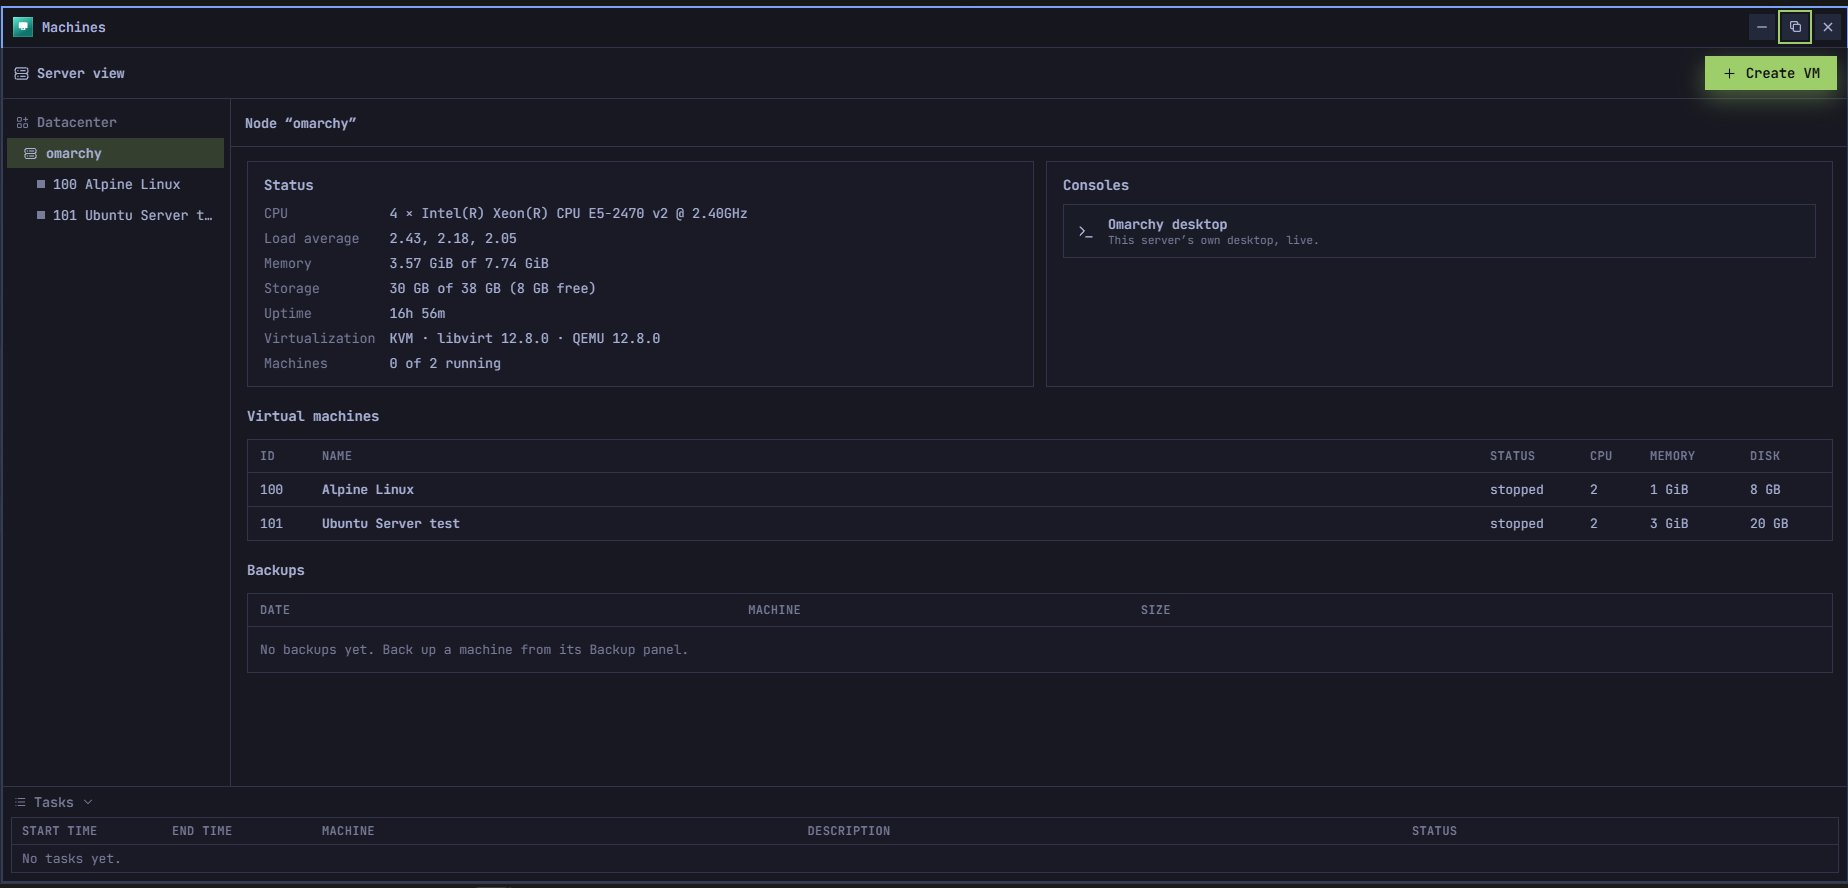
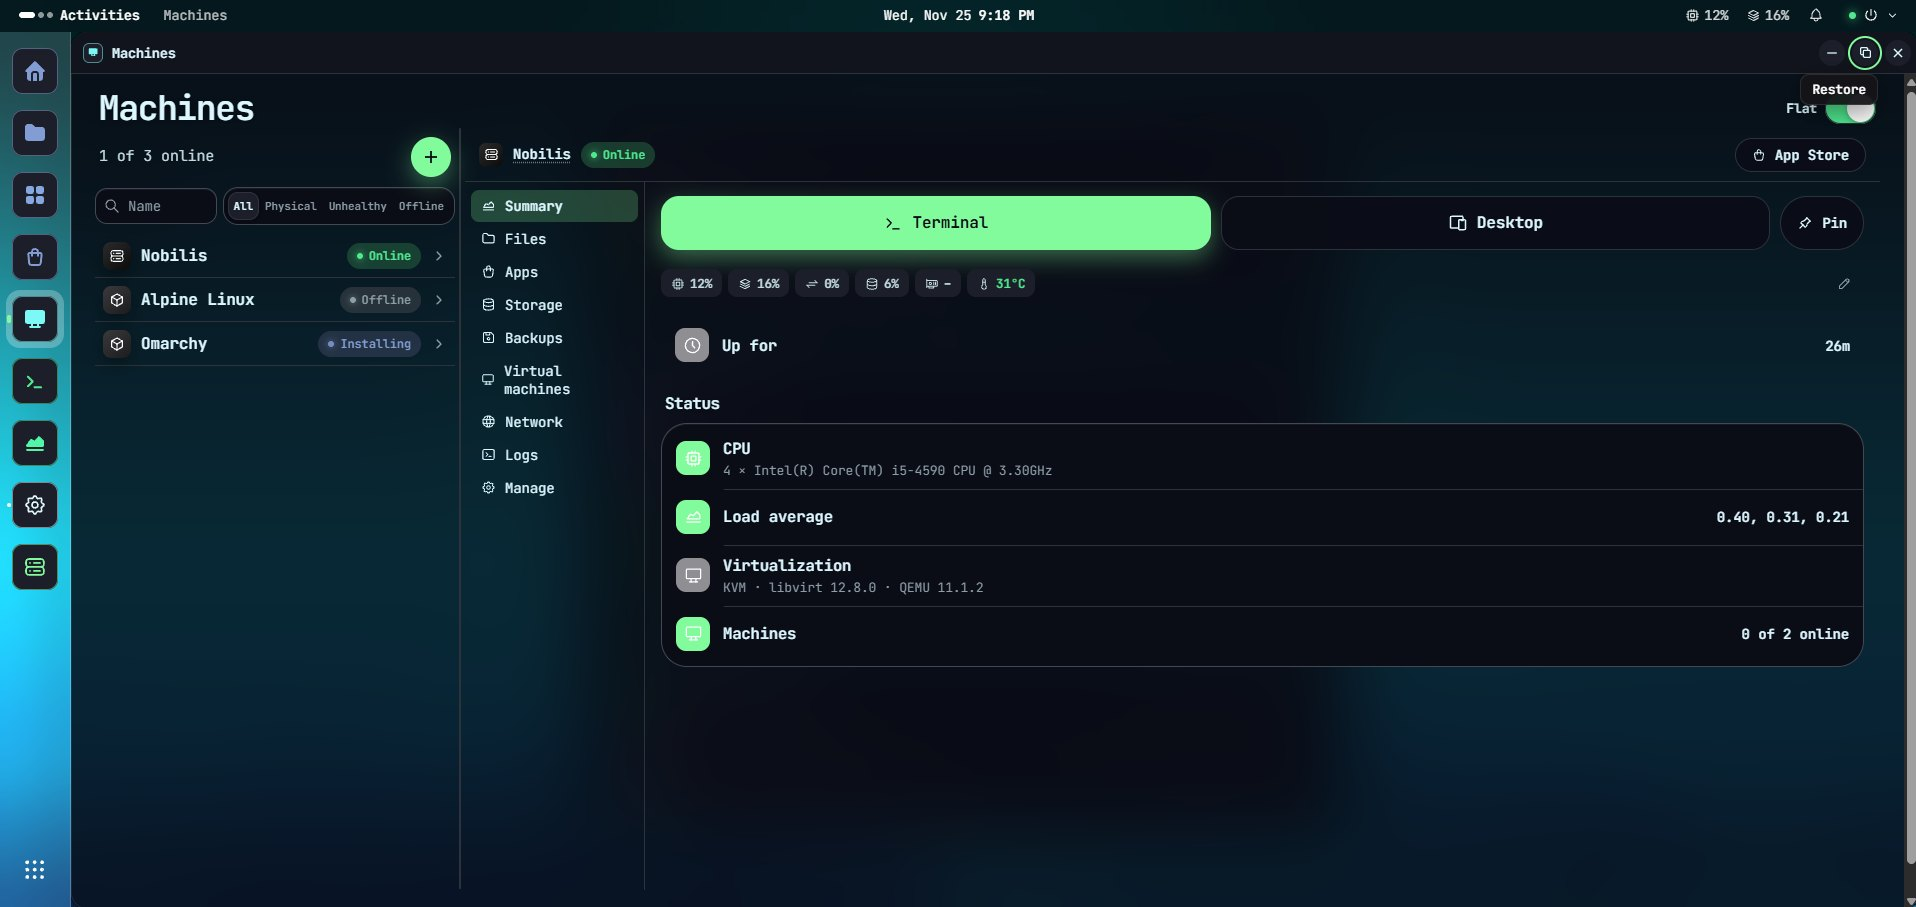
README: new screenshots (desktop, Machines, App Store, Files, QR upload)
Claude-Session: https://claude.ai/code/session_011b9fuB8ePE7DYtvvqNj1s2

diff --git a/README.md b/README.md
@@ -4,7 +4,7 @@ Turn an [Omarchy](https://omarchy.org) machine into a home server you run from a
 apps from a catalog of about 580, keep your files and drives in one place, run virtual machines, and
 reach your real Omarchy desktop — from a phone, a tablet or another computer.
 
-![My Own Data Center's desktop in a browser, with App Store, Machines and Terminal windows open](docs/screenshots/desktop-overview.jpg)
+![My Own Data Center's desktop in a browser, with Machines, Terminal and Files windows open](docs/screenshots/desktop-overview.jpg)
 
 <p align="center">
   <img src="docs/screenshots/phone-home.png" width="24%" alt="Home on a phone">
@@ -97,6 +97,8 @@ where you left off; add `--purge` to delete those too.
   `omarchy-server restart`. Set it to `off` to clear it. Until it is set, opening an app that way says
   "Opening apps remotely needs app addresses". On your own network it isn't needed.
 
+![The App Store in the desktop layout: apps by category from every store you've added](docs/screenshots/desktop-store.jpg)
+
 ### Files
 
 - Your real home folder, so the browser and the Omarchy desktop see the same files.
@@ -106,6 +108,13 @@ where you left off; add `--purge` to delete those too.
 - Photo sync from your phone, and SMB network shares for any folder. Shares are opened on your home
   LAN only (the usual 10., 172.16. and 192.168. addresses); Tailscale is a second network and does
   not get port 445.
+- **Quick transfers with a QR code** (desktop layout): right-click a file to share it, or a folder to
+  upload into it from a phone. The phone opens a small page without signing in; the code lasts 10
+  minutes and covers only that file or folder.
+
+![Files in the desktop layout: places, your storage, and folders shared on your network](docs/screenshots/desktop-files.jpg)
+
+<p align="center"><img src="docs/screenshots/qr-upload.png" width="45%" alt="Upload to a folder from a phone: a QR code that lasts 10 minutes"></p>
 
 ### Machines (virtual machines)
 
@@ -120,7 +129,7 @@ where you left off; add `--purge` to delete those too.
   port forwarding to services inside a machine.
 - Machines run as you under libvirt's per-user session, not as root.
 
-![Machines in the desktop layout: the server's status, its virtual machines and backups](docs/screenshots/desktop-machines.jpg)
+![Machines in the desktop layout: the server's summary, status and its virtual machines](docs/screenshots/desktop-machines.jpg)
 
 ### Your Omarchy desktop, remotely
 
